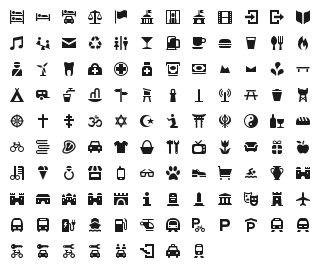
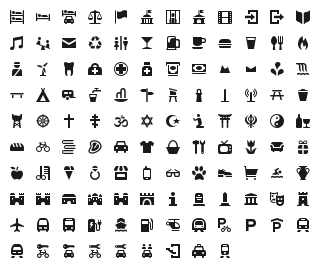
add waterfall (resolves #27)

diff --git a/font/osmic-preview.html b/font/osmic-preview.html
@@ -275,7 +275,8 @@
 .oc-tram-stop:before,
 .oc-waste-basket:before,
 .oc-watchtower:before,
-.oc-water-tower:before {
+.oc-water-tower:before,
+.oc-waterfall:before {
         display: inline-block;
   font-family: "osmic";
   font-style: normal;
@@ -406,6 +407,7 @@
 .oc-waste-basket:before { content: "\f16c"; }
 .oc-watchtower:before { content: "\f16d"; }
 .oc-water-tower:before { content: "\f16e"; }
+.oc-waterfall:before { content: "\f174"; }
     </style>
 
     <!--[if lte IE 8]><script src="http://html5shiv.googlecode.com/svn/trunk/html5.js"></script><![endif]-->
@@ -421,7 +423,7 @@
   <body class="characters-off">
     <div id="page" class="container">
       <header>
-        <h1>osmic contains 116 glyphs:</h1>
+        <h1>osmic contains 117 glyphs:</h1>
         <a onclick="toggleCharacters(); return false;" href="#">Toggle Preview Characters</a>
       </header>
 
@@ -1931,6 +1933,19 @@
         <div class="usage">
           <input class="class" type="text" readonly="readonly" onClick="this.select();" value=".oc-water-tower" />
           <input class="point" type="text" readonly="readonly" onClick="this.select();" value="&amp;#xf16e;" />
+        </div>
+      </div>
+      
+      <div class="glyph">
+        <div class="preview-glyphs">
+          <span class="step size-12"><span class="letters">Pp</span><i id="oc-waterfall" class="oc-waterfall"></i></span><span class="step size-14"><span class="letters">Pp</span><i id="oc-waterfall" class="oc-waterfall"></i></span><span class="step size-16"><span class="letters">Pp</span><i id="oc-waterfall" class="oc-waterfall"></i></span><span class="step size-18"><span class="letters">Pp</span><i id="oc-waterfall" class="oc-waterfall"></i></span><span class="step size-21"><span class="letters">Pp</span><i id="oc-waterfall" class="oc-waterfall"></i></span><span class="step size-24"><span class="letters">Pp</span><i id="oc-waterfall" class="oc-waterfall"></i></span><span class="step size-36"><span class="letters">Pp</span><i id="oc-waterfall" class="oc-waterfall"></i></span><span class="step size-48"><span class="letters">Pp</span><i id="oc-waterfall" class="oc-waterfall"></i></span><span class="step size-60"><span class="letters">Pp</span><i id="oc-waterfall" class="oc-waterfall"></i></span><span class="step size-72"><span class="letters">Pp</span><i id="oc-waterfall" class="oc-waterfall"></i></span>
+        </div>
+        <div class="preview-scale">
+          <span class="step">12</span><span class="step">14</span><span class="step">16</span><span class="step">18</span><span class="step">21</span><span class="step">24</span><span class="step">36</span><span class="step">48</span><span class="step">60</span><span class="step">72</span>
+        </div>
+        <div class="usage">
+          <input class="class" type="text" readonly="readonly" onClick="this.select();" value=".oc-waterfall" />
+          <input class="point" type="text" readonly="readonly" onClick="this.select();" value="&amp;#xf174;" />
         </div>
       </div>
       

diff --git a/font/osmic.css b/font/osmic.css
@@ -138,7 +138,8 @@
 .oc-tram-stop:before,
 .oc-waste-basket:before,
 .oc-watchtower:before,
-.oc-water-tower:before {
+.oc-water-tower:before,
+.oc-waterfall:before {
   display: inline-block;
   font-family: "osmic";
   font-style: normal;
@@ -269,3 +270,4 @@
 .oc-waste-basket:before { content: "\f16c"; }
 .oc-watchtower:before { content: "\f16d"; }
 .oc-water-tower:before { content: "\f16e"; }
+.oc-waterfall:before { content: "\f174"; }
